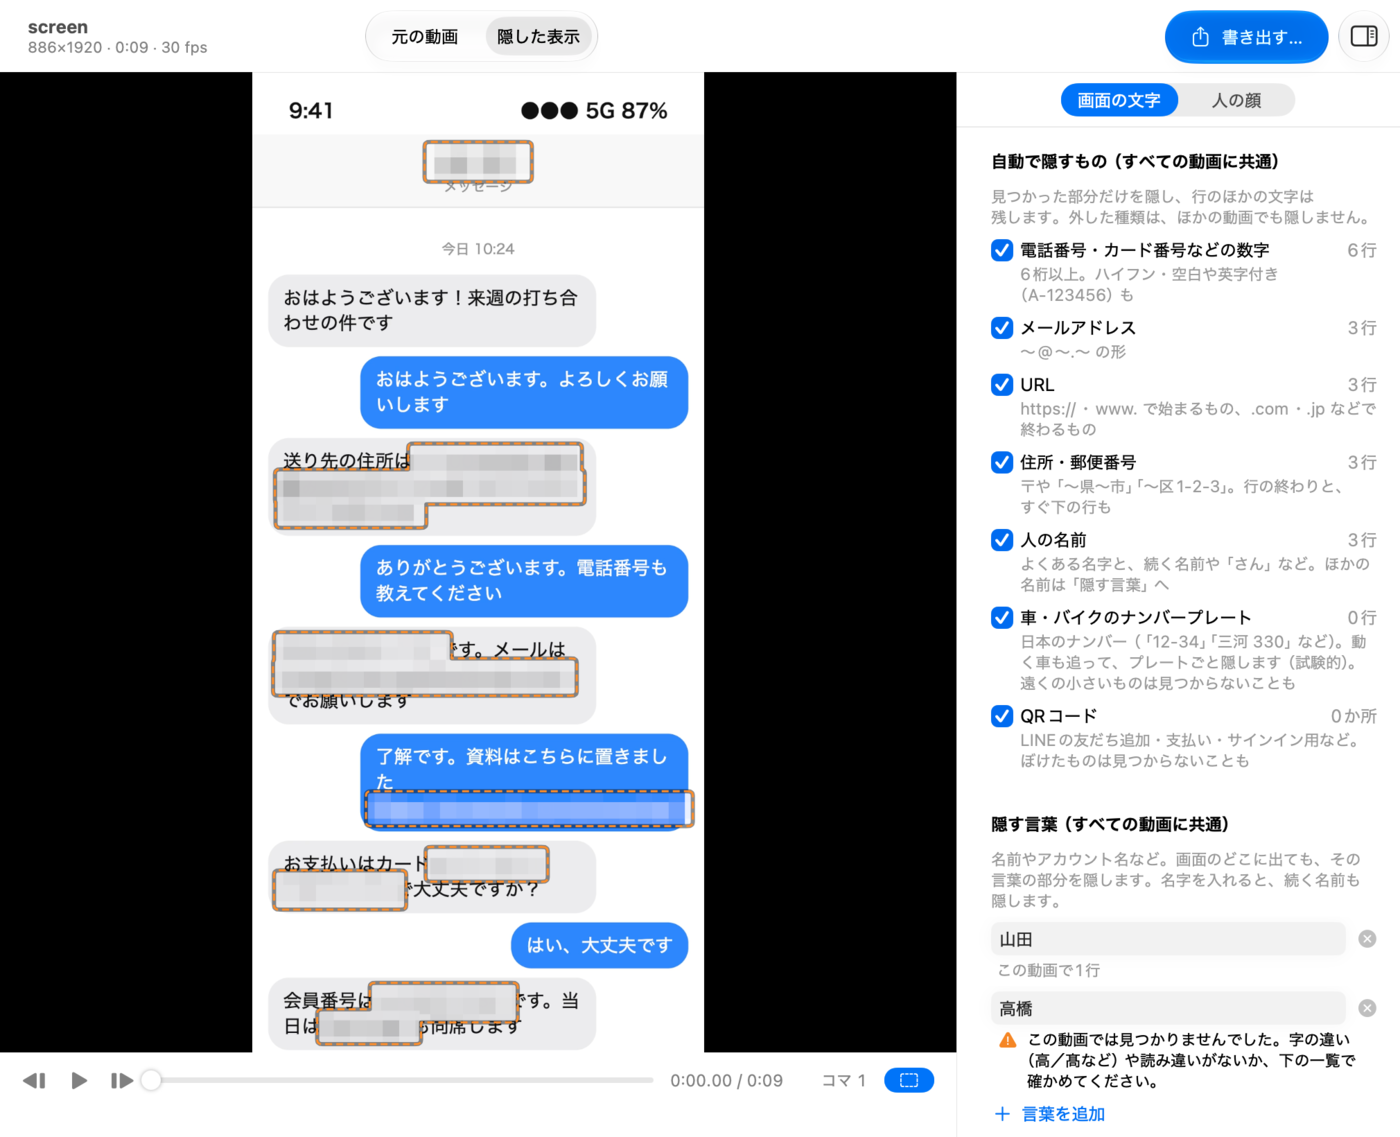
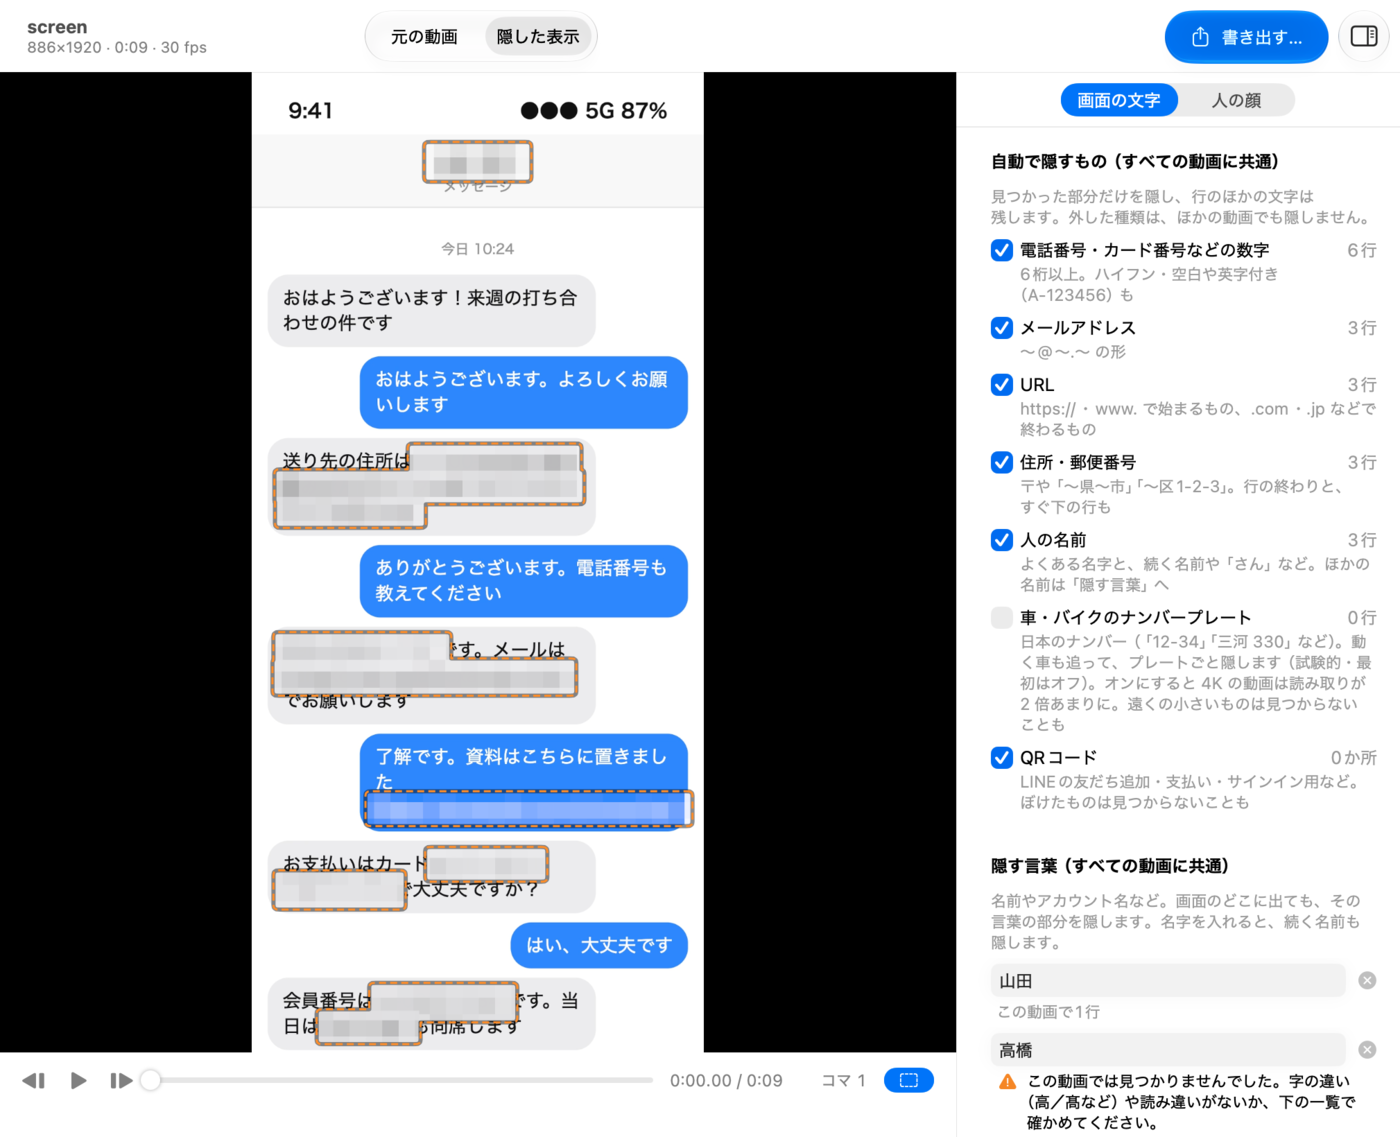
chore(release): v1.7 4K のプレートを分けて読み、プレートは既定でオフにする
版を 1.7（CFBundleVersion 11）に上げ、リリースノートを足す。
README の用途選択と画面の文字の画像を、プレートが最初はオフの画面に撮り直す
（説明の文言が変わり、チェックの状態も変わったため）。画像は架空データの
画面録画（testdata/screen.mov）で撮った。

diff --git a/.github/release-notes/v1.7.md b/.github/release-notes/v1.7.md
@@ -1,0 +1,20 @@
+4K の動画で、小さく映ったナンバープレートも読めるようになりました。ナンバープレートは試験的な機能なので、最初はオフにしました。
+
+## 変わったこと
+
+- **ナンバープレートは最初はオフです**：「画面の文字」の「自動で隠すもの」で「車・バイクのナンバープレート」にチェックを入れると隠します。読み取ったあとにオンにすると、その動画を読み直します。1.5 以降で「自動で隠すもの」のチェックを変えたことがある場合は、ナンバープレートもそのときのままです（オンだったならオン）
+- **4K の動画は画面を分けて読みます**：4K の動画では、手前を横切る車のプレートが一度も読めず、隠れないことがありました。コマ全体のままでは小さい文字が読めないためで、長辺 3000px 以上の動画は 0.3 秒おきに画面を 9 か所に分けて読み直します。実際の車を撮った 4K の動画 3 本（手元の確認用）で、読み取れる番号が増えました
+- **そのぶん読み取りが延びます**：ナンバープレートをオンにすると、4K の動画は読み取りがオフのときの約 2.2〜2.5 倍かかります。最初はオフにしたのはこのためです。オフのときは、分けて読むことも追いかけることもしません
+- 分けて読んでも、読めないまま通り過ぎる車のプレートは隠れません。書き出す前に「隠した表示」で必ず確かめてください
+- コマンドラインでは、`--text-kinds` の既定から `plate` を外しました。使うときは `--text-kinds number,email,url,address,name,plate,qr` のように加えてください
+- くわしくは [苦手なこと](https://github.com/mhimt-lab/mozaipoon/blob/main/docs/LIMITATIONS.md#ナンバープレート) をご覧ください
+
+## ダウンロードと開き方
+
+1. 下の **Mozaipoon.zip** をダウンロードして開き、「モザイぷーん」を「アプリケーション」フォルダへ移す（前の版があれば置き換えます）
+2. 初めて開くときは「開いていません」という表示が出ます（Apple の公証を受けていないため）。表示は閉じてください
+3. 「システム設定」▸「プライバシーとセキュリティ」の下の方にある「このまま開く」を押すと開けます。2 回目からはふつうに開けます
+
+- 動作環境：macOS 26 以降。Apple シリコンと Intel の両方に対応（Intel の Mac での動作はまだ確かめていません）
+- 処理はすべてこの Mac の中で行い、動画や顔・文字・スタンプの画像はどこにも送信しません
+- 自動で見つからなかった顔や文字は隠れません。公開する前に、書き出した動画を必ず最後まで見て確かめてください
